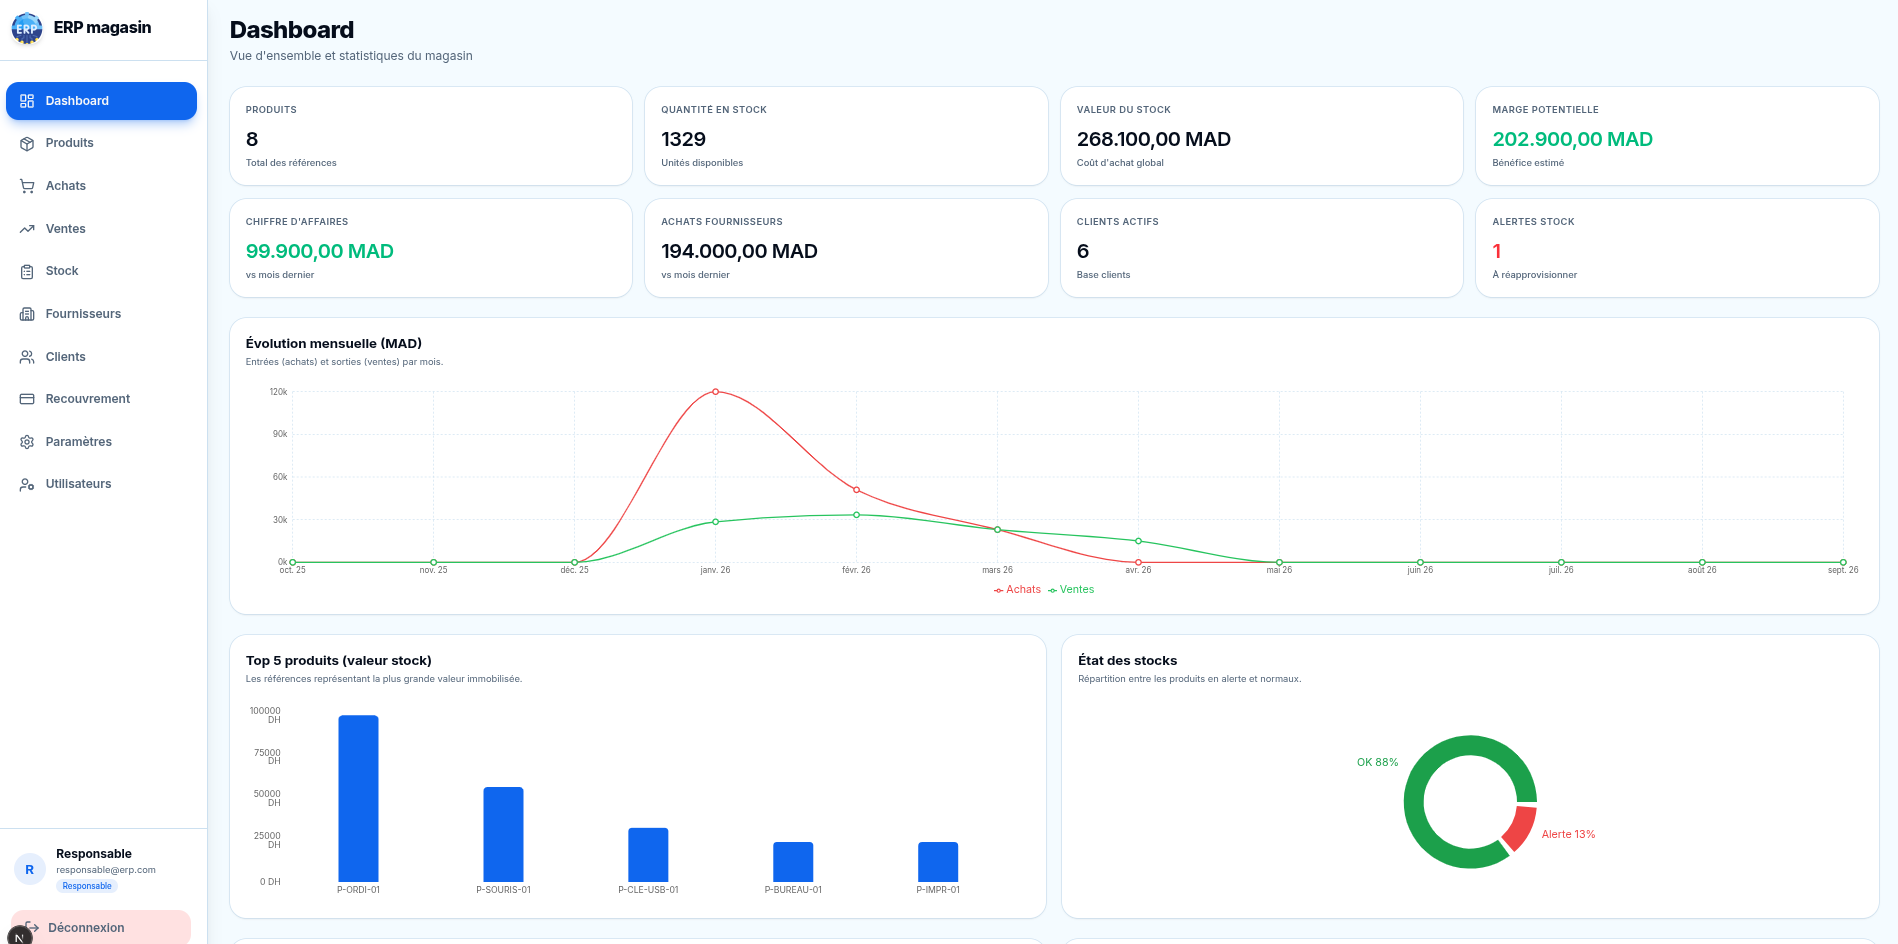
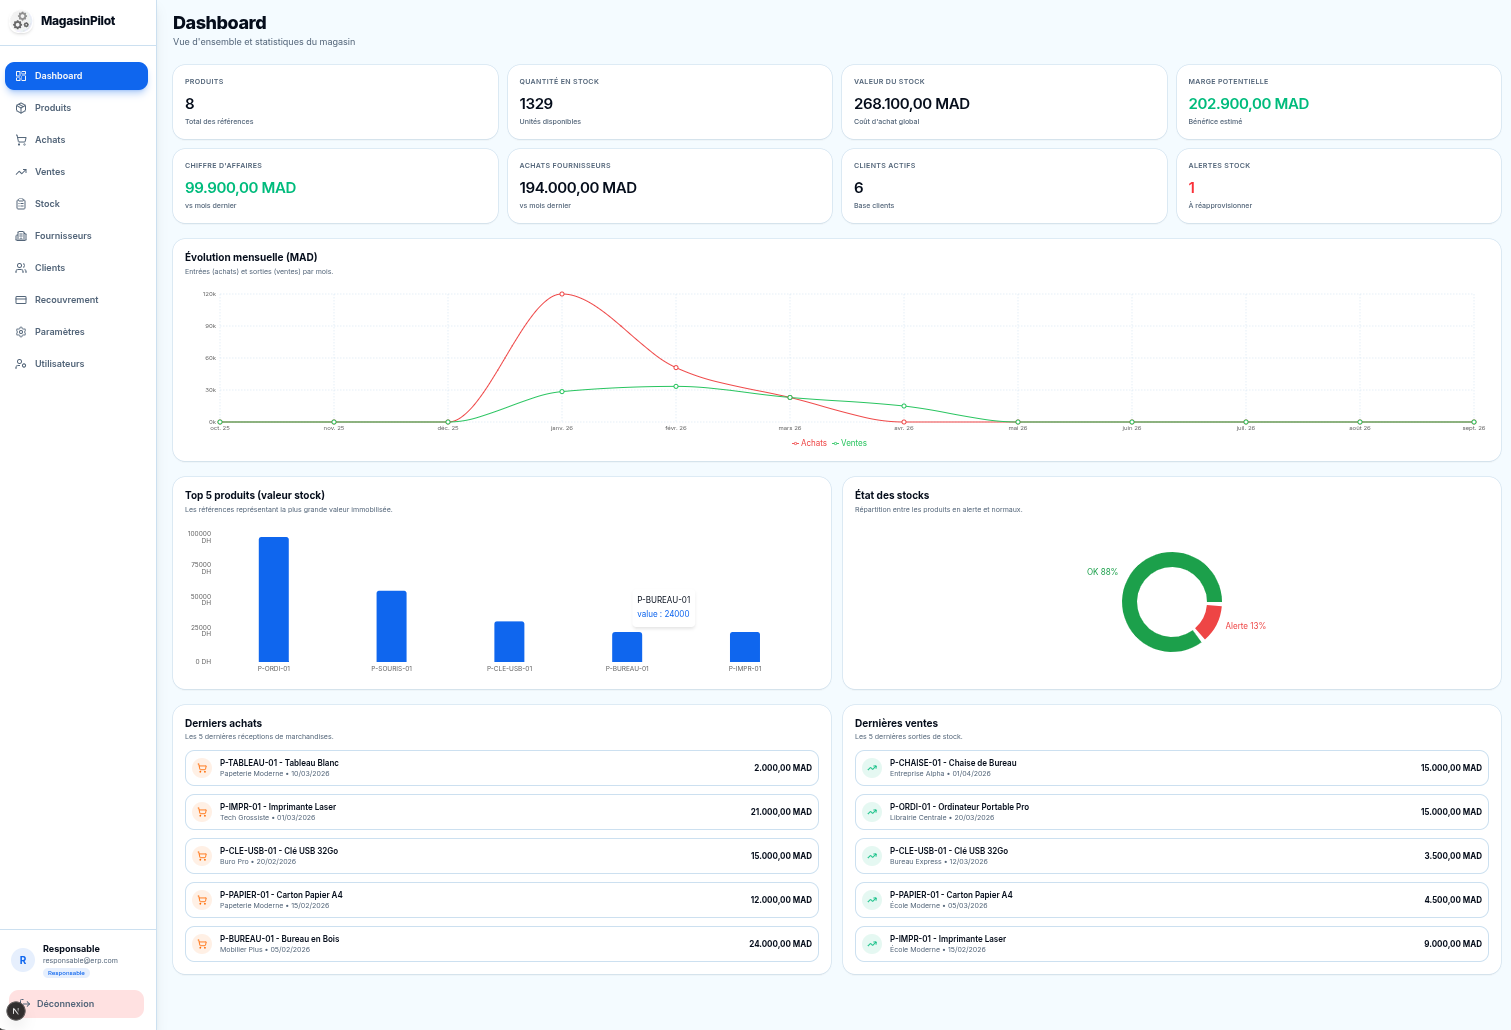
The last commit in v1

diff --git a/src/app/dashboard/utilisateurs/page.tsx b/src/app/dashboard/utilisateurs/page.tsx
@@ -37,6 +37,8 @@ export default function UtilisateursPage() {
   const [error, setError] = useState("");
   const [fieldErrors, setFieldErrors] = useState<Record<string, string>>({});
   const [saving, setSaving] = useState(false);
+  const [deleteTarget, setDeleteTarget] = useState<Utilisateur | null>(null);
+  const [deleting, setDeleting] = useState(false);
 
   const fetchUsers = useCallback(async () => {
     setLoading(true);
@@ -90,11 +92,13 @@ export default function UtilisateursPage() {
     }
   };
 
-  const handleDelete = async (id: string) => {
-    if (!confirm("Supprimer cet utilisateur ?")) return;
+  const confirmDelete = async () => {
+    if (!deleteTarget) return;
+    setDeleting(true);
     try {
-      const res = await fetch(`/api/utilisateurs/${id}`, { method: "DELETE" });
+      const res = await fetch(`/api/utilisateurs/${deleteTarget.id}`, { method: "DELETE" });
       if (res.ok) {
+        setDeleteTarget(null);
         if (utilisateurs.length === 1 && page > 1) {
           setPage((p) => p - 1);
         } else {
@@ -103,6 +107,8 @@ export default function UtilisateursPage() {
       }
     } catch {
       console.error("Failed to delete user");
+    } finally {
+      setDeleting(false);
     }
   };
 
@@ -243,7 +249,7 @@ export default function UtilisateursPage() {
                     <td className="p-3 align-middle text-right">
                       {u.role !== "RESPONSABLE" && (
                         <button
-                          onClick={() => handleDelete(u.id)}
+                          onClick={() => setDeleteTarget(u)}
                           className="inline-flex items-center justify-center rounded-lg border border-red-200 bg-background text-red-600 hover:bg-red-50 px-2.5 h-7 text-xs font-medium transition-all"
                         >
                           <Trash2 className="h-3.5 w-3.5" />
@@ -266,6 +272,37 @@ export default function UtilisateursPage() {
           />
         )}
       </div>
+
+      {deleteTarget && (
+        <div className="fixed inset-0 z-50 flex items-center justify-center">
+          <div className="fixed inset-0 bg-black/10" onClick={() => setDeleteTarget(null)} />
+          <div className="relative z-50 w-full max-w-[calc(100%-2rem)] rounded-xl bg-popover p-4 text-sm text-popover-foreground ring-1 ring-foreground/10 sm:max-w-sm">
+            <div className="flex flex-col gap-2">
+              <h2 className="text-base font-medium leading-none">Confirmer la suppression</h2>
+            </div>
+            <p className="text-sm text-muted-foreground mt-2">
+              Êtes-vous sûr de vouloir supprimer l&apos;employé <strong>{deleteTarget?.nom}</strong> ({deleteTarget?.email}) ? Cette action est irréversible.
+            </p>
+            <div className="flex flex-col-reverse gap-2 sm:flex-row sm:justify-end mt-4">
+              <button
+                type="button"
+                className="inline-flex items-center justify-center rounded-lg border border-border bg-background hover:bg-muted hover:text-foreground px-3 h-9 text-sm font-medium whitespace-nowrap transition-all disabled:pointer-events-none disabled:opacity-50 [&_svg]:pointer-events-none [&_svg]:shrink-0 [&_svg]:size-4"
+                onClick={() => setDeleteTarget(null)}
+              >
+                Annuler
+              </button>
+              <button
+                type="button"
+                disabled={deleting}
+                className="inline-flex items-center justify-center rounded-lg border border-transparent bg-destructive/10 text-destructive hover:bg-destructive/20 px-3 h-9 text-sm font-medium whitespace-nowrap transition-all disabled:pointer-events-none disabled:opacity-50 [&_svg]:pointer-events-none [&_svg]:shrink-0 [&_svg]:size-4"
+                onClick={confirmDelete}
+              >
+                {deleting ? "Suppression..." : "Supprimer"}
+              </button>
+            </div>
+          </div>
+        </div>
+      )}
     </div>
   );
 }

diff --git a/src/app/(vitrine)/layout.tsx b/src/app/(vitrine)/layout.tsx
@@ -3,18 +3,23 @@ import Image from "next/image";
 
 const socials = [
   {
-    label: "LinkedIn",
-    href: "https://www.linkedin.com/",
-    src: "/linkedin.svg",
+    label: "Instagram — CAD Digital Agency",
+    href: "https://www.instagram.com/caddigitalagency/",
+    src: "/instagram.svg",
   },
   {
-    label: "GitHub",
-    href: "https://github.com/",
+    label: "GitHub — CAD Digital Agency",
+    href: "https://github.com/cad-code",
     src: "/github-light.svg",
   },
   {
-    label: "Gmail",
-    href: "mailto:contact@magasinpilot.com",
+    label: "LinkedIn — CAD Digital Agency",
+    href: "https://www.linkedin.com/company/cad-digital-agency/posts/?feedView=all",
+    src: "/linkedin.svg",
+  },
+  {
+    label: "Email — caddigitalagency@gmail.com",
+    href: "mailto:caddigitalagency@gmail.com",
     src: "/gmail-2026.svg",
   },
 ];
@@ -53,18 +58,29 @@ export default function VitrineLayout({ children }: { children: React.ReactNode 
 
 
           <div className="flex items-center justify-center gap-4">
-            {socials.map(s => (
+            {socials.map((s) => (
               <a
                 key={s.label}
                 href={s.href}
                 target="_blank"
                 rel="noopener noreferrer"
                 aria-label={s.label}
+                title={s.label}
                 className="flex h-11 w-11 items-center justify-center rounded-full border bg-card shadow-sm transition-all hover:-translate-y-0.5 hover:bg-muted"
               >
                 <Image src={s.src} alt={s.label} width={20} height={20} className="h-5 w-5" />
               </a>
             ))}
+          </div>
+
+          <div className="flex flex-col items-center gap-1 text-sm text-muted-foreground">
+            <a
+              href="mailto:caddigitalagency@gmail.com"
+              className="font-medium text-foreground hover:underline"
+            >
+              caddigitalagency@gmail.com
+            </a>
+            <p>© {new Date().getFullYear()} CAD Digital Agency — Tous droits réservés.</p>
           </div>
 
 
